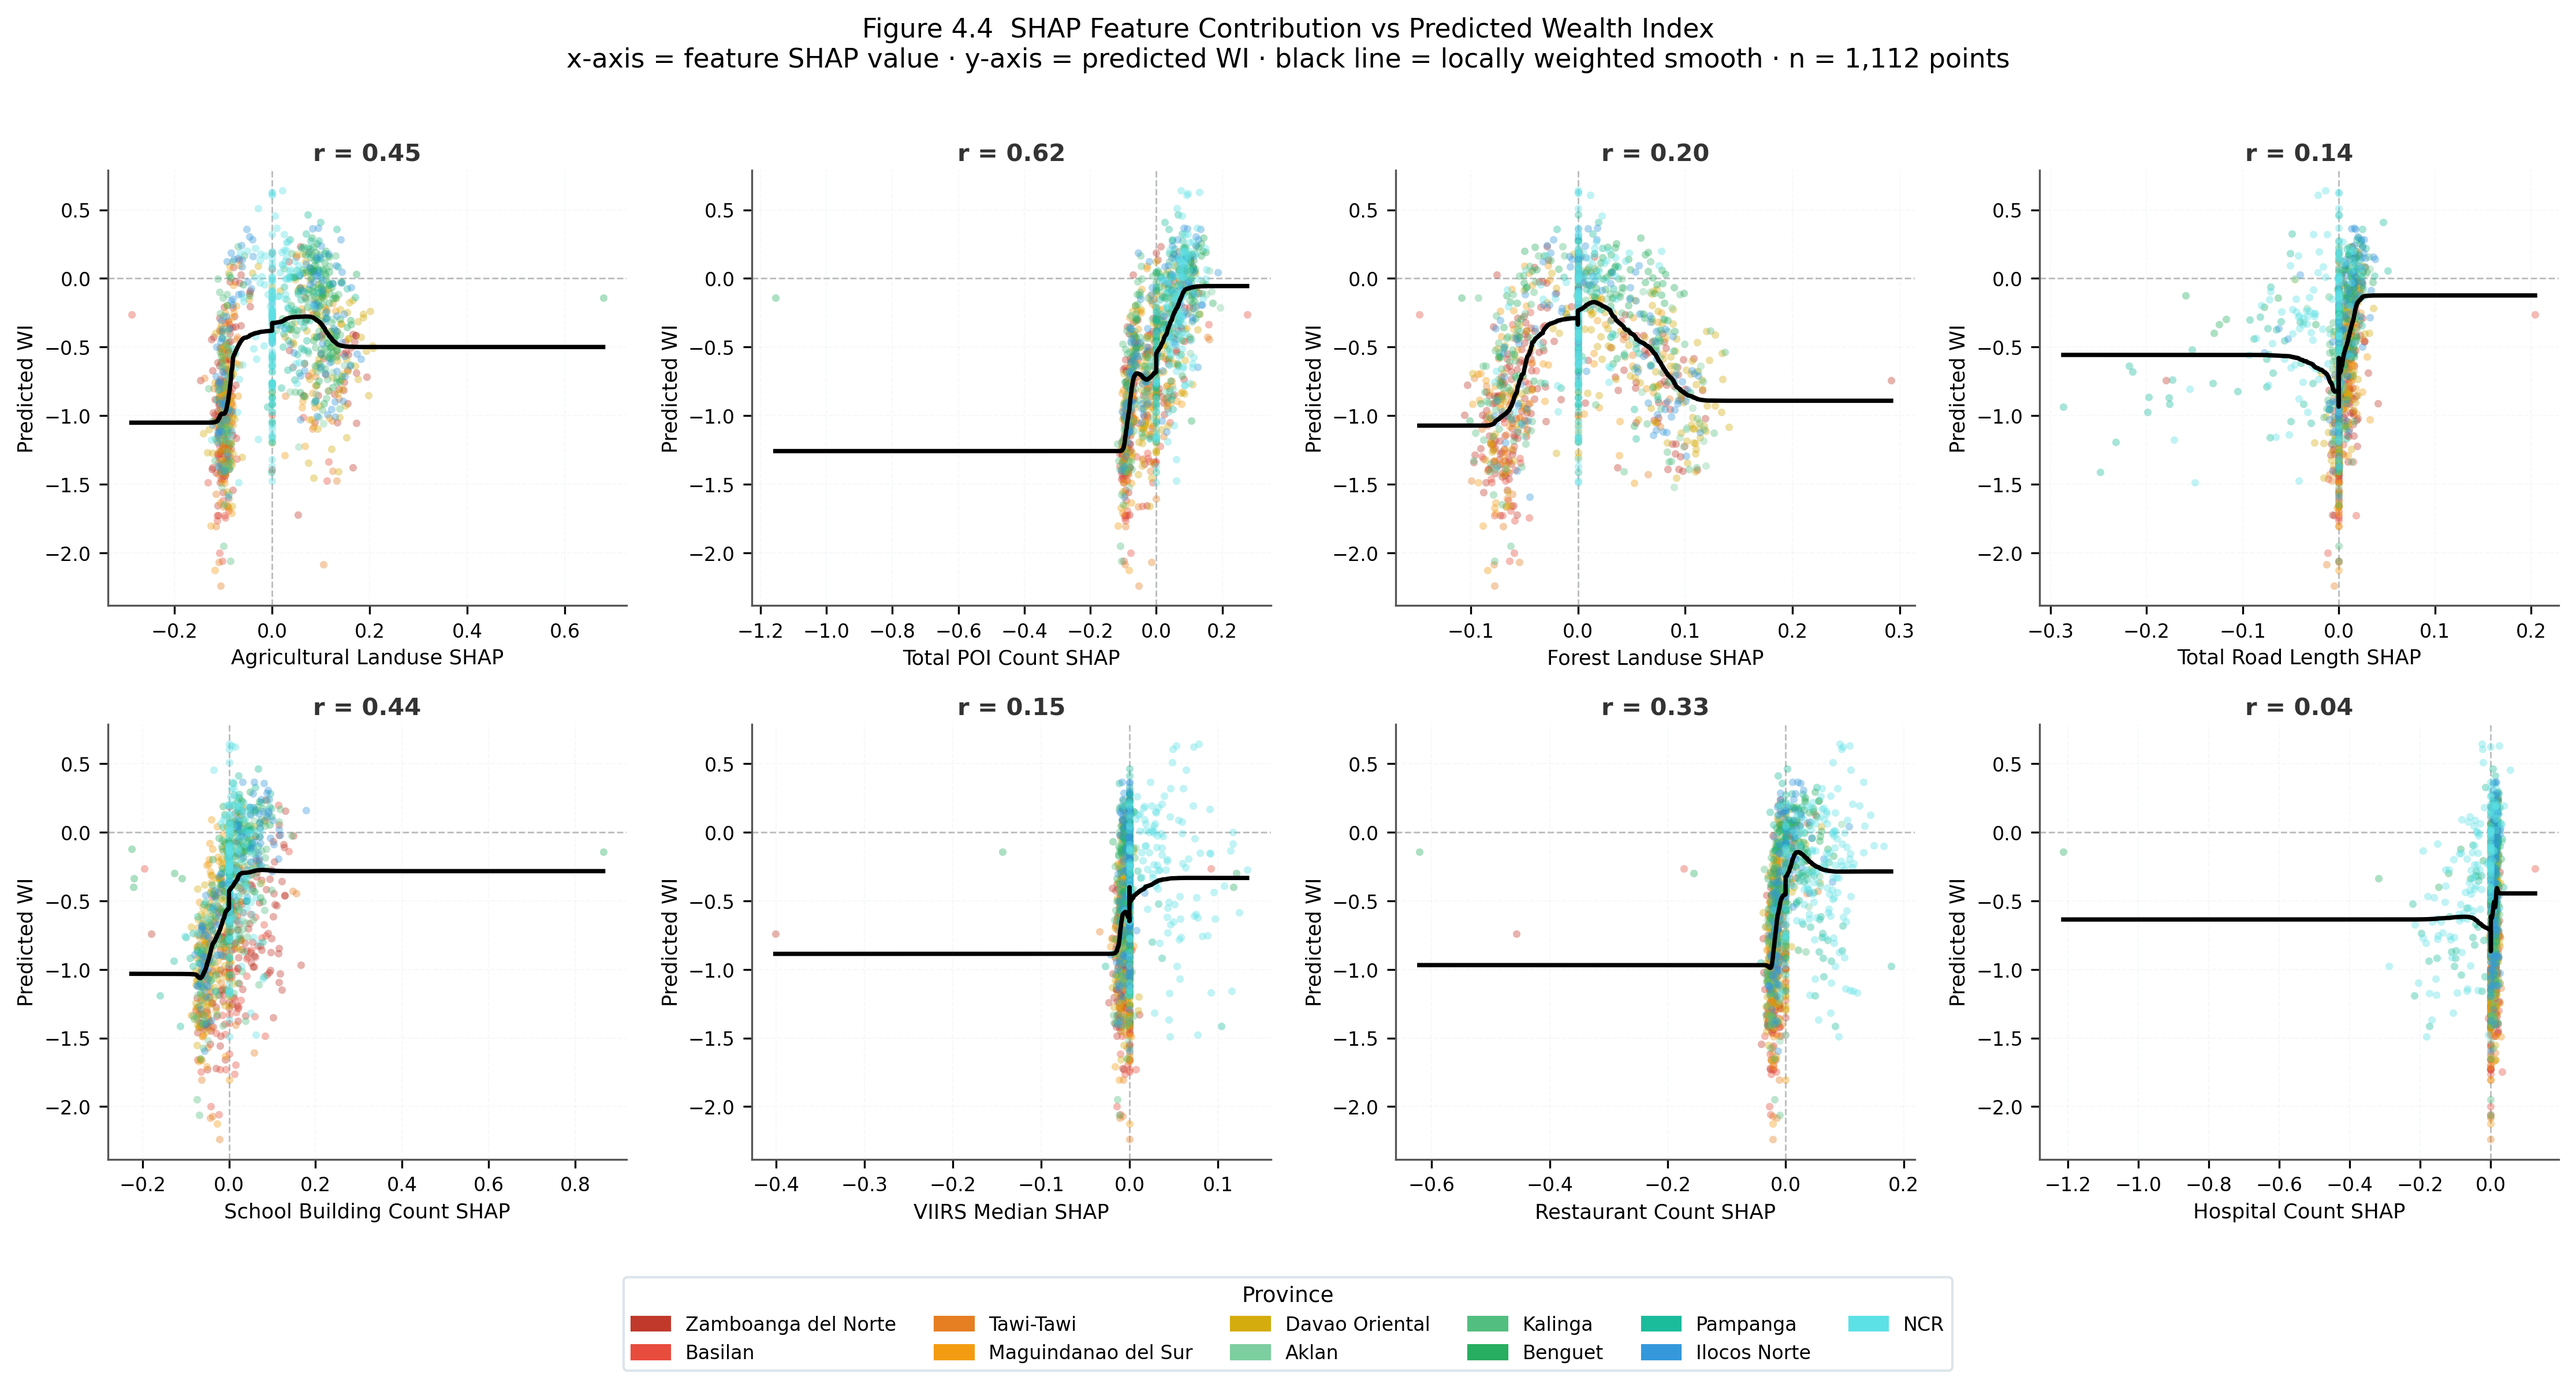
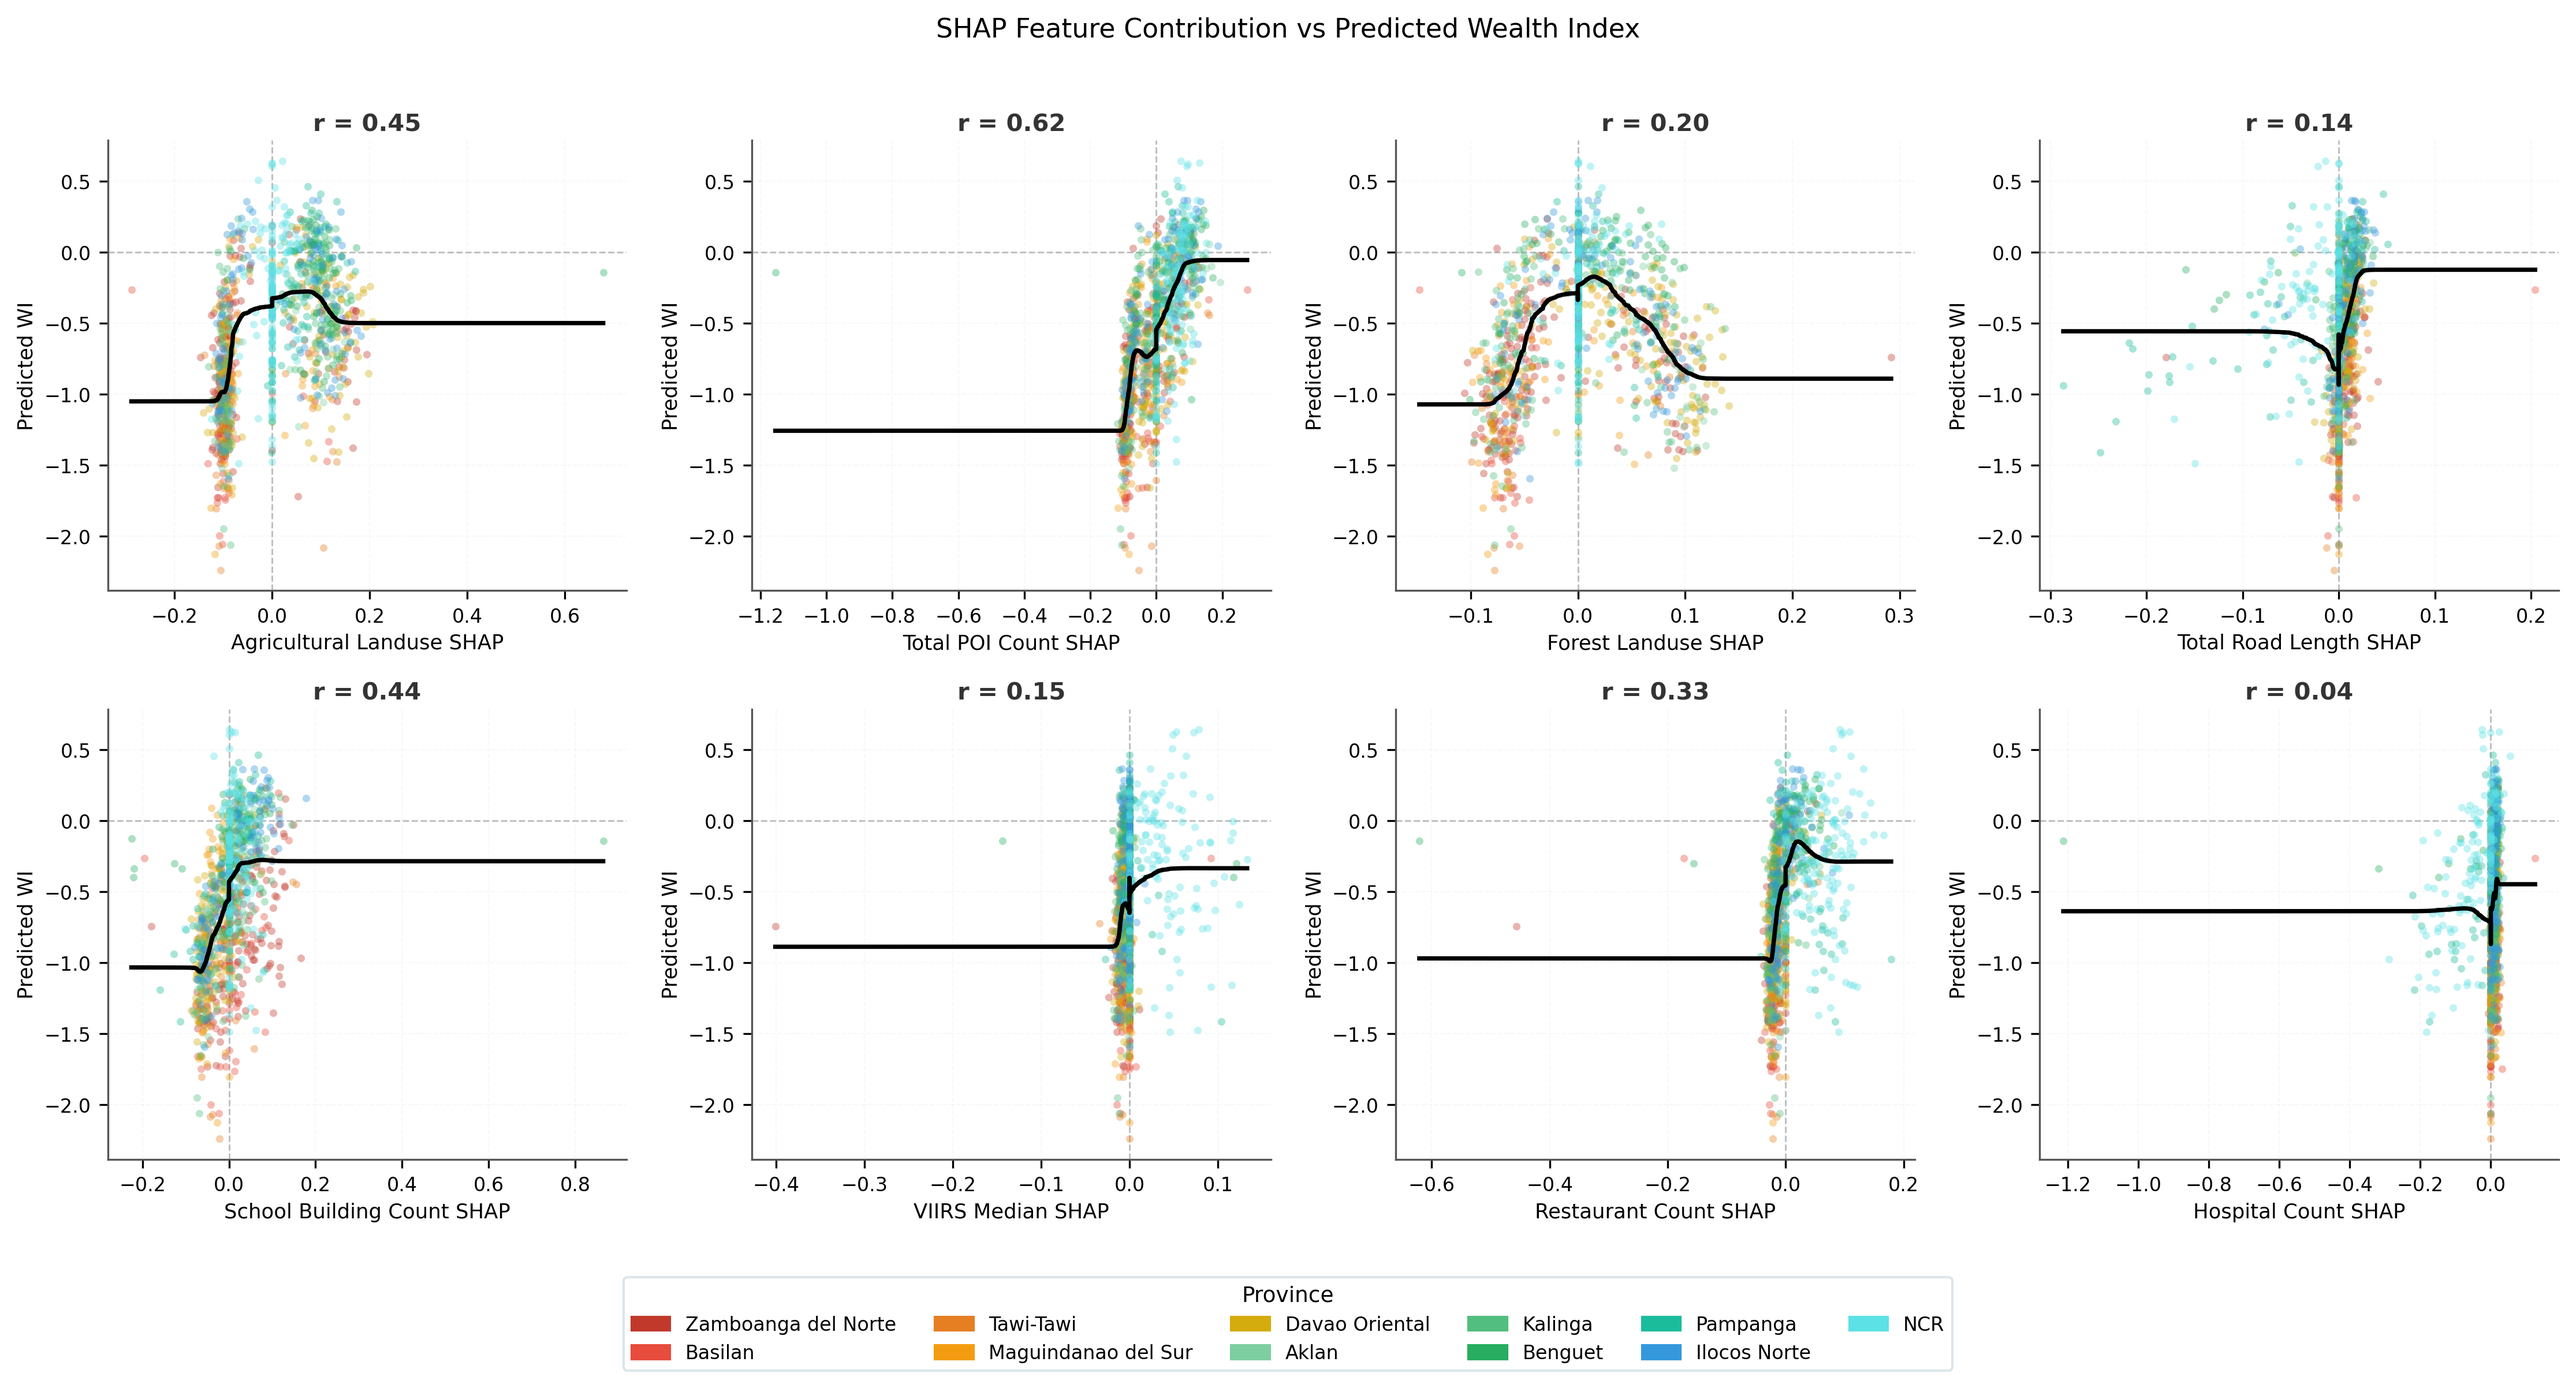
revised plots

diff --git a/Datamaraws_Manuscript/plots/generate_figures.py b/Datamaraws_Manuscript/plots/generate_figures.py
@@ -155,6 +155,81 @@ else:
 
 print(f'  Dataset: {len(df)} rows across {df["Province"].nunique()} provinces')
 
+def figure_4_2():
+    if df_master is None:
+        # Fall back: predicted WI distribution scatter (density)
+        fig, ax = plt.subplots(figsize=(6.5, 5.5))
+        for prov in PROV_ORDER:
+            sub = df[df['Province'] == prov]
+            if len(sub) == 0: continue
+            ax.scatter(sub.index, sub['Predicted_Wealth'],
+                       color=PROVINCE_COLORS.get(prov, OCEAN),
+                       alpha=0.6, s=18, label=prov, zorder=3)
+        ax.set_xlabel('Point Index')
+        ax.set_ylabel('Predicted Wealth Index')
+        ax.set_title('Figure 4.2  Predicted Wealth Index by Province\n'
+                     '(Run with master_cluster_summary.csv for DHS validation scatter)',
+                     fontsize=11)
+        ax.axhline(0, color='#888', linewidth=0.8, linestyle='--')
+        ax.legend(loc='upper left', ncol=2, fontsize=8)
+        fig.savefig(f'{OUT_DIR}/fig4_2_predicted_scatter.png')
+        plt.close()
+        print('  Fig 4.2 saved (fallback version — no DHS WI available)')
+        return
+
+    # Full validation scatter using DHS actual WI
+    dhs_pts = df_master[df_master['DHS_WI'].notna()].copy()
+    dhs_pts = dhs_pts.merge(df[['PointID']], on='PointID', how='inner')
+
+    obs  = dhs_pts['DHS_WI'].values
+    pred = dhs_pts['Predicted_Wealth'].values
+    r, _     = pearsonr(obs, pred)
+    r2_pool  = 1 - np.sum((obs - pred)**2) / np.sum((obs - np.mean(obs))**2)
+
+    fig, ax = plt.subplots(figsize=(6.5, 5.5))
+
+    for prov in PROV_ORDER:
+        sub = dhs_pts[dhs_pts['Province'] == prov]
+        if len(sub) == 0: continue
+        ax.scatter(sub['DHS_WI'], sub['Predicted_Wealth'],
+                   color=PROVINCE_COLORS.get(prov, OCEAN),
+                   alpha=0.72, s=28, edgecolors='white',
+                   linewidths=0.3, label=prov, zorder=4)
+
+    # Identity line
+    mn = min(obs.min(), pred.min()) - 0.1
+    mx = max(obs.max(), pred.max()) + 0.1
+    ax.plot([mn, mx], [mn, mx], '--', color='#888', linewidth=1.1,
+            label='Perfect prediction', zorder=2)
+
+    # OLS fit line
+    m, b = np.polyfit(obs, pred, 1)
+    xs = np.linspace(mn, mx, 200)
+    ax.plot(xs, m*xs + b, '-', color=NAVY, linewidth=1.5,
+            label=f'OLS fit (slope={m:.2f})', zorder=3)
+
+    ax.set_xlabel('Observed DHS Wealth Index (Actual Survey WI)', fontsize=11)
+    ax.set_ylabel('Predicted Wealth Index (CNN-LSTM)', fontsize=11)
+    ax.set_title('Predicted vs Observed Wealth Index\n'
+                 f'DHS-origin clusters (n={len(obs)})  ·  '
+                 f'Pooled R² = {r2_pool:.4f}  ·  r = {r:.4f}',
+                 fontsize=11)
+
+    stats_txt = (f'Pooled R² = {r2_pool:.4f}\nPearson r = {r:.4f}\n'
+                 f'n = {len(obs)} DHS clusters')
+    ax.text(0.04, 0.96, stats_txt, transform=ax.transAxes,
+            fontsize=9, va='top', ha='left',
+            bbox=dict(boxstyle='round,pad=0.4', facecolor=CREAM, edgecolor=RULE, alpha=0.9))
+
+    leg = ax.legend(loc='lower center', bbox_to_anchor=(0.5, -0.3), fontsize=8, ncol=4, frameon=True, edgecolor=RULE, facecolor='white',
+                    handletextpad=0.4, columnspacing=0.8)
+    ax.set_xlim(mn, mx); ax.set_ylim(mn, mx)
+    ax.grid(True, linestyle='--', alpha=0.3)
+
+    fig.savefig(f'{OUT_DIR}/fig4_2_predicted_vs_observed.png')
+    plt.close()
+    print('  Fig 4.2 saved')
+
 
 # ══════════════════════════════════════════════════════════════════════════════
 def figure_4_4():
@@ -218,9 +293,7 @@ def figure_4_4():
                frameon=True, edgecolor=RULE, facecolor='white')
 
     fig.suptitle(
-        'Figure 4.4  SHAP Feature Contribution vs Predicted Wealth Index\n'
-        'x-axis = feature SHAP value · y-axis = predicted WI · '
-        'black line = locally weighted smooth · n = 1,112 points',
+        'SHAP Feature Contribution vs Predicted Wealth Index',
         fontsize=11, y=1.01
     )
     fig.tight_layout(rect=[0, 0.06, 1, 1])
@@ -265,8 +338,7 @@ def figure_4_5():
     ax.set_xscale('log')
     ax.set_xlabel('Mean |SHAP Value|  (log scale)', fontsize=11)
     ax.set_title(
-        'Figure 4.5  Global SHAP Feature Importance\n'
-        'Top 20 features · n = 1,112 · Kernel SHAP · 200 background · 500 coalitions',
+        'Global SHAP Feature Importance',
         fontsize=11
     )
     ax.grid(axis='x', linestyle='--', alpha=0.35, which='both')
@@ -309,9 +381,16 @@ def figure_4_6():
     if 'Other' in cat_totals:
         cat_totals['Road'] = cat_totals.get('Road', pd.Series(0)) + cat_totals.pop('Other')
 
-    cat_means = {k: v.mean() for k, v in cat_totals.items()}
-    total     = sum(cat_means.values())
-    cat_pcts  = {k: v / total * 100 for k, v in cat_means.items()}
+    # Grand total per point (sum across all categories for each row)
+    total_per_point = sum(cat_totals.values())
+
+    # Mean-of-ratios: for each point compute category_i / total, then average
+    # This matches run_shap.py: df_master['LSTM_Pct'].mean()
+    cat_pcts = {
+        k: (v / total_per_point * 100).mean()
+        for k, v in cat_totals.items()
+    }
+
 
     ordered = ['Temporal'] + sorted(
         [c for c in cat_pcts if c != 'Temporal'],
@@ -334,14 +413,14 @@ def figure_4_6():
         at.set_fontsize(9)
         at.set_fontweight('bold')
         r, g, b = int(c[1:3],16), int(c[3:5],16), int(c[5:7],16)
-        at.set_color('white' if 0.299*r+0.587*g+0.114*b < 160 else '#222')
+        at.set_color('#222')
 
     ax1.text(0, 0, 'SHAP\nContribution', ha='center', va='center',
              fontsize=10, fontweight='bold', color=NAVY)
     ax1.legend(wedges, [f'{c}  {cat_pcts[c]:.1f}%' for c in ordered],
                loc='lower center', bbox_to_anchor=(0.5, -0.14),
                ncol=2, fontsize=9, frameon=False)
-    ax1.set_title('(a) Study-wide SHAP Category Split\nn = 1,112 points', fontsize=11)
+    ax1.set_title('(a) Study-wide SHAP Category Split', fontsize=11)
 
     # Stacked bar
     prov_cat = {}
@@ -368,12 +447,12 @@ def figure_4_6():
     ax2.set_ylabel('Mean Total |SHAP|', fontsize=11)
     ax2.set_title('(b) Mean SHAP Contribution by Province\nper feature category',
                   fontsize=11)
-    ax2.legend(loc='upper right', fontsize=9, title='Category',
+    ax2.legend(loc='upper center', bbox_to_anchor=(0.5, -0.24), ncol=4, fontsize=9, title='Category',
                title_fontsize=9, frameon=True, edgecolor=RULE, facecolor='white')
     ax2.grid(axis='y', linestyle='--', alpha=0.3)
     ax2.yaxis.set_major_formatter(ticker.FormatStrFormatter('%.3f'))
 
-    fig.suptitle('Figure 4.6  SHAP Feature Attribution by Category',
+    fig.suptitle('SHAP Feature Attribution by Category',
                  fontsize=12, fontweight='bold', y=1.01)
     fig.savefig(f'{OUT_DIR}/fig4_6_shap_category.png', bbox_inches='tight')
     plt.close()
@@ -413,7 +492,7 @@ def figure_4_9():
                 fontsize=7, color=tc, fontweight='bold')
 
     ax.axvline(0, color='#888', linestyle='--', linewidth=0.9, zorder=1)
-    ax.text(0, len(prov_labels_used)+0.6, 'WI = 0', ha='center',
+    ax.text(0, -.12, 'WI = 0', ha='center',
             fontsize=8, color='#666', style='italic')
 
     xlim = ax.get_xlim()
@@ -424,16 +503,15 @@ def figure_4_9():
     ax.set_yticklabels(prov_labels_used, fontsize=10)
     ax.set_xlabel('Predicted Wealth Index', fontsize=11)
     ax.set_title(
-        'Figure 4.9  Distribution of Predicted Wealth Index by Province\n'
-        'Sorted poorest to wealthiest by PSA 2023 poverty incidence  ·  '
-        'n = 1,112 inference points', fontsize=11
+        'Distribution of Predicted Wealth Index by Province'
+        , fontsize=11
     )
     ax.grid(axis='x', linestyle='--', alpha=0.3)
     ax.legend(handles=[
         mpatches.Patch(color=CORAL, alpha=0.5, label='Low wealth (WI < −0.50)'),
         mpatches.Patch(color=AMBER, alpha=0.5, label='Below avg (−0.50 ≤ WI < +0.50)'),
         mpatches.Patch(color=TEAL,  alpha=0.5, label='High wealth (WI ≥ +0.50)'),
-    ], loc='lower right', fontsize=9, frameon=True, edgecolor=RULE, facecolor='white')
+    ], loc='upper center', bbox_to_anchor=(0.5, -0.1), ncol=3, fontsize=9, frameon=True, edgecolor=RULE, facecolor='white')
     fig.tight_layout()
     fig.savefig(f'{OUT_DIR}/fig4_9_boxplot_by_province.png')
     plt.close()
@@ -449,11 +527,11 @@ def figure_B1():
     FIX: dropped redundant 4th 'Overall mean' axis.
     """
     fold_results = {
-        'Fold 1': {'R2': 0.5019, 'r': 0.7105, 'RMSE': 0.4811},
-        'Fold 2': {'R2': 0.5411, 'r': 0.7363, 'RMSE': 0.4651},
-        'Fold 3': {'R2': 0.5512, 'r': 0.7441, 'RMSE': 0.4688},
-        'Fold 4': {'R2': 0.5103, 'r': 0.7162, 'RMSE': 0.4801},
-        'Fold 5': {'R2': 0.5177, 'r': 0.7292, 'RMSE': 0.4702},
+        'Fold 1': {'R2': 0.5302, 'r': 0.7329, 'RMSE': 0.4662},
+        'Fold 2': {'R2': 0.5251, 'r': 0.7250, 'RMSE': 0.4477},
+        'Fold 3': {'R2': 0.5631, 'r': 0.7511, 'RMSE': 0.4720},
+        'Fold 4': {'R2': 0.5035, 'r': 0.7131, 'RMSE': 0.4919},
+        'Fold 5': {'R2': 0.4999, 'r': 0.7136, 'RMSE': 0.4866},
     }
     mean_r2   = np.mean([v['R2']   for v in fold_results.values()])
     mean_r    = np.mean([v['r']    for v in fold_results.values()])
@@ -505,14 +583,12 @@ def figure_B1():
     ax.grid(color=RULE, linewidth=0.7)
     ax.set_facecolor('#fafcfd')
 
-    ax.legend(loc='lower left', bbox_to_anchor=(1.08, 0.0),
+    ax.legend(loc='lower center', ncol=4, bbox_to_anchor=(0.5, -0.14),
               fontsize=9, frameon=True, edgecolor=RULE, facecolor='white')
 
     ax.set_title(
-        'Figure B.1  Cross-Validation Fold Performance Radar\n'
-        'Normalized metrics · higher always = better · '
-        'Consistency = 1 \u2212 normalized RMSE',
-        fontsize=10, fontweight='bold', pad=20
+        'Cross-Validation Fold Performance Radar',
+        fontsize=11, fontweight='bold', pad=20
     )
     fig.tight_layout()
     fig.savefig(f'{OUT_DIR}/figB1_cv_radar.png', bbox_inches='tight')
@@ -594,10 +670,8 @@ def figure_B4():
         cbar.ax.tick_params(labelsize=8)
 
     fig.suptitle(
-        'Figure B.4  SHAP Dependence Plots — Top 6 Static Features\n'
-        'x-axis = feature SHAP contribution  \u00b7  y-axis = predicted WI  \u00b7  '
-        'color = VIIRS SHAP  \u00b7  n = 1,112 points',
-        fontsize=10, fontweight='bold', y=1.02
+        'SHAP Dependence Plots — Top 6 Static Features',
+        fontsize=11, fontweight='bold'
     )
     fig.savefig(f'{OUT_DIR}/figB4_shap_dependence.png', bbox_inches='tight')
     plt.close()
@@ -606,6 +680,7 @@ def figure_B4():
 
 if __name__ == '__main__':
     print('\nGenerating figures...')
+    figure_4_2(); print()
     figure_4_4(); print()
     figure_4_5(); print()
     figure_4_6(); print()
@@ -756,7 +831,7 @@ def figure_A1():
 
     best_cfg = df_hp.iloc[final_idx]
     fig.suptitle(
-        f'Figure A.1  Hyperparameter Search \u00b7 30 Random Trials \u00b7 '
+        f'Hyperparameter Search \u00b7 30 Random Trials \u00b7 '
         f'Best Val MSE = {metric[best_idx]:.4f}\n'
         f'Selected: LSTM={int(best_cfg.lstm_units)}, drop={best_cfg.dropout_dyn}, '
         f'Static={int(best_cfg.dense_static)}, drop={best_cfg.dropout_stat}, '
@@ -899,15 +974,13 @@ def figure_A2():
         f'Best val MAE: {val_mae[best_epoch-1]:.4f} \u00b7 '
         'EarlyStopping patience=15 \u00b7 ReduceLROnPlateau factor=0.5, patience=7'
     )
-    fig.text(0.5, -0.04, summary, ha='center', va='top', fontsize=8.5,
+    fig.text(0.5, 0.1, summary, ha='center', va='top', fontsize=8.5,
              color='#555', style='italic',
              bbox=dict(boxstyle='round,pad=0.45', facecolor=CREAM,
                        edgecolor=RULE, alpha=0.9))
 
     fig.suptitle(
-        'Figure A.2  CNN-LSTM Training History \u00b7 Final Model (Best Hyperparameters)\n'
-        '\u2605 = epoch with minimum validation MSE \u00b7 '
-        'weights restored from best epoch at early stopping',
+        'CNN-LSTM Training History \u00b7 Final Model (Best Hyperparameters)',
         fontsize=11, fontweight='bold'
     )
     fig.tight_layout(rect=[0, 0.10, 1, 0.93])
